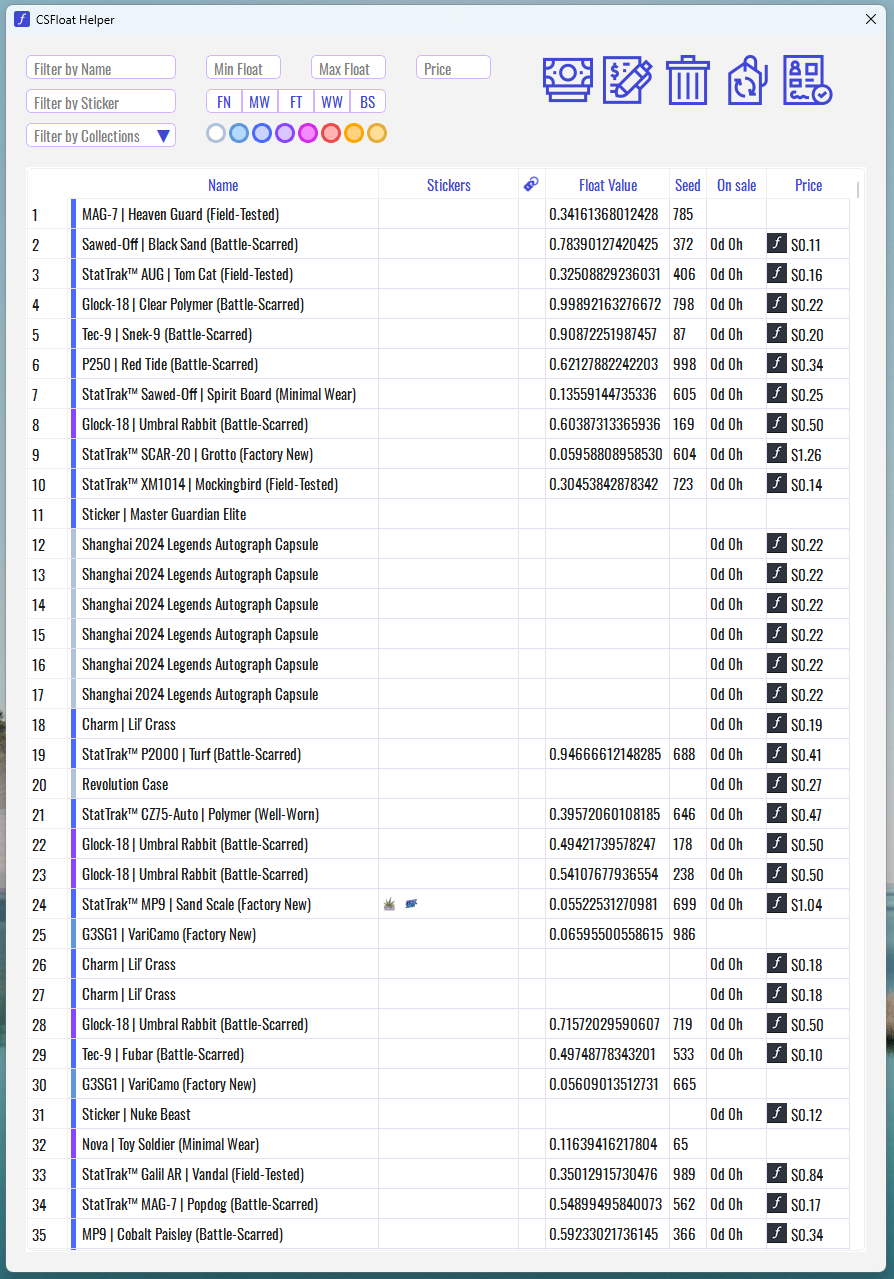
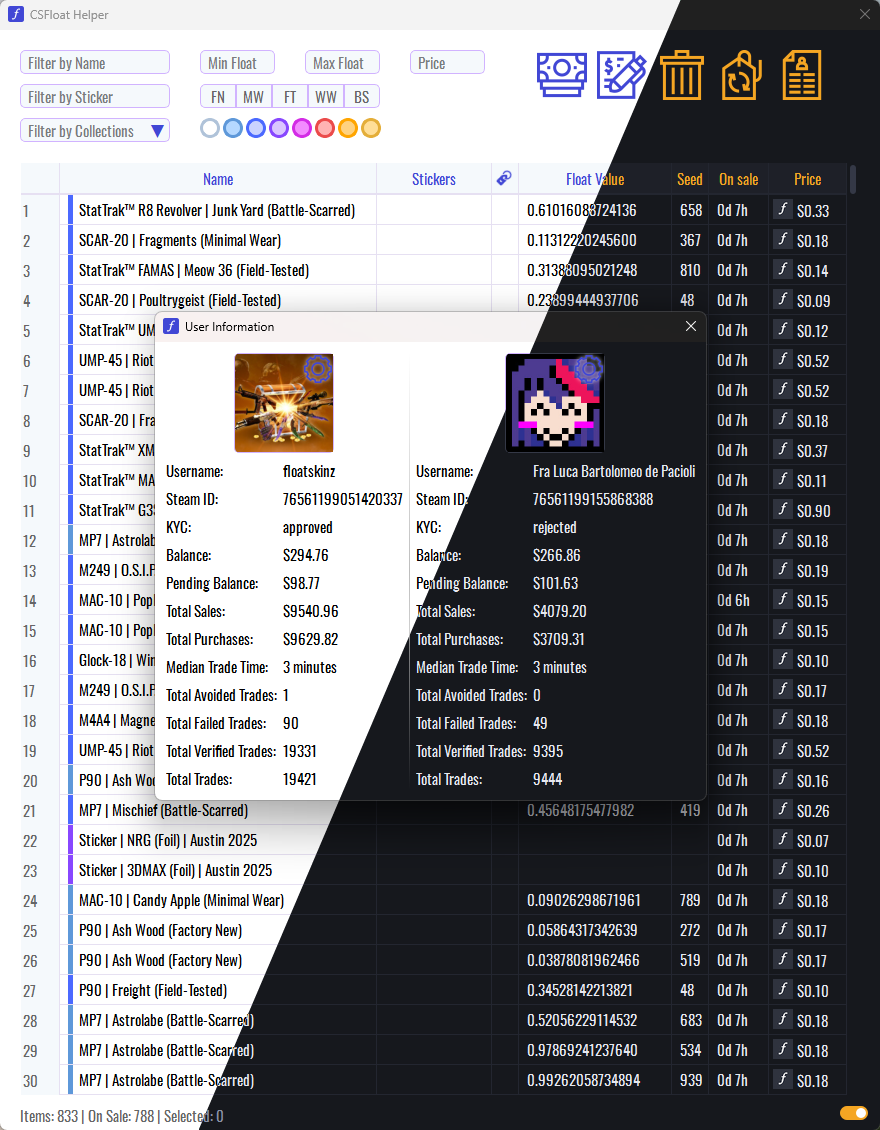
Update README with English guide and simplified setup

diff --git a/modules/loading_spinner.py b/modules/loading_spinner.py
@@ -1,0 +1,116 @@
+# modules/loading_spinner.py
+
+from PyQt6.QtWidgets import QWidget
+from PyQt6.QtGui import QPainter, QColor, QPen
+from PyQt6.QtCore import Qt, QTimer, QRectF
+
+
+class LoadingSpinner(QWidget):
+    """Анимированный спиннер загрузки. Рисует вращающуюся дугу."""
+
+    def __init__(self, parent=None, size=48, line_width=4, color=None):
+        super().__init__(parent)
+        from modules.theme import Theme
+
+        self._size = size
+        self._line_width = line_width
+        self._color = QColor(color) if color else QColor(Theme.PRIMARY)
+        self._angle = 0
+        self._span = 80
+
+        self.setFixedSize(size, size)
+        self.setAttribute(Qt.WidgetAttribute.WA_TranslucentBackground)
+
+        self._timer = QTimer(self)
+        self._timer.timeout.connect(self._rotate)
+        self._timer.setInterval(16)  # ~60 fps
+
+    def start(self):
+        self._timer.start()
+        self.show()
+
+    def stop(self):
+        self._timer.stop()
+        self.hide()
+
+    def is_spinning(self):
+        return self._timer.isActive()
+
+    def _rotate(self):
+        self._angle = (self._angle - 6) % 360
+        self.update()
+
+    def paintEvent(self, event):
+        painter = QPainter(self)
+        painter.setRenderHint(QPainter.RenderHint.Antialiasing)
+
+        pen = QPen(self._color, self._line_width, Qt.PenStyle.SolidLine, Qt.PenCapStyle.RoundCap)
+        painter.setPen(pen)
+
+        margin = self._line_width / 2 + 1
+        rect = QRectF(margin, margin, self._size - 2 * margin, self._size - 2 * margin)
+        painter.drawArc(rect, self._angle * 16, self._span * 16)
+
+        painter.end()
+
+
+class LoadingOverlay(QWidget):
+    """Полупрозрачный оверлей со спиннером по центру виджета."""
+
+    def __init__(self, parent=None, text=""):
+        super().__init__(parent)
+        from modules.theme import Theme
+
+        self._text = text
+        self._spinner = LoadingSpinner(self, size=40, line_width=3)
+        self._bg_color = QColor(Theme.BG_WHITE)
+        self._bg_color.setAlpha(180)
+        self._text_color = QColor(Theme.TEXT_SECONDARY)
+
+        self.setAttribute(Qt.WidgetAttribute.WA_TransparentForMouseEvents, False)
+        self.hide()
+
+    def start(self, text=""):
+        if text:
+            self._text = text
+        self._reposition()
+        self.show()
+        self.raise_()
+        self._spinner.start()
+
+    def stop(self):
+        self._spinner.stop()
+        self.hide()
+
+    def set_text(self, text):
+        self._text = text
+        self.update()
+
+    def _reposition(self):
+        if self.parent():
+            self.setGeometry(self.parent().rect())
+        cx = self.width() // 2 - self._spinner.width() // 2
+        cy = self.height() // 2 - self._spinner.height() // 2 - 10
+        self._spinner.move(cx, cy)
+
+    def resizeEvent(self, event):
+        super().resizeEvent(event)
+        self._reposition()
+
+    def paintEvent(self, event):
+        painter = QPainter(self)
+        painter.fillRect(self.rect(), self._bg_color)
+
+        if self._text:
+            from modules.theme import Theme
+            from PyQt6.QtGui import QFont
+
+            painter.setPen(self._text_color)
+            painter.setFont(QFont(Theme.FONT_FAMILY, Theme.FONT_SIZE_SMALL))
+            text_y = self.height() // 2 + self._spinner.height() // 2 + 4
+            painter.drawText(
+                self.rect().adjusted(0, text_y - self.height() // 2, 0, 0),
+                Qt.AlignmentFlag.AlignHCenter | Qt.AlignmentFlag.AlignTop,
+                self._text,
+            )
+        painter.end()

diff --git a/README.md b/README.md
@@ -1,73 +1,153 @@
-![Screenshot of CSFloat Helper](screenshot/Screenshot_main.png)
-## Installation
+# CSFloat Helper
 
-### Requirements
+![Screenshot](screenshot/Screenshot_main.png)
 
--   **Python 3.7 or higher**: Make sure you have Python version 3.7 or higher installed. You can download Python from the [official website](https://www.python.org/).
-
-### Installing Python
-
-1.  Download and install Python from the [official website](https://www.python.org/downloads/).
-2.  Ensure that Python and `pip` (Python package manager) are added to your system path.
-
-### Installing Dependencies
-
-1.  Ensure you are in the root directory of the project where the `requirements.txt` file is located.
-    
-2.  Install the dependencies:
-    
-    `pip install -r requirements.txt`
-    
-
-### Configuration Setup
-
-1.  Modify the `config.json` file in the root directory of the project with the following content:
-    
-    `{ "api_keys": [ "YOUR_API_KEY", "YOUR_API_KEY" ] }`
-    
-2.  Replace `"YOUR_API_KEY"` with your actual API key, and you can use multiple keys.
-    
-
-## Running the Script
-
-To run the program, use the following command:
-
-`python csfloat_helper.py`
-
-If you prefer to use a bat file for quick launch on Windows, you can use the run_csfloat_helper.bat file located in the project root:
-
-`./run_csfloat_helper.bat`
+Desktop application for convenient inventory management on CSFloat marketplace (CS2).
 
 ## Features
 
-![Screenshot of CSFloat Helper](screenshot/Screenshot_user_info.png)
-### User Interface
+### Listing Management
+- **Bulk Listing** — list multiple items for sale at once
+- **Delisting** — quickly remove items from sale
+- **Relisting** — relist items back to marketplace
+- **Price Changes** — three methods:
+  - Set new price value
+  - Change price by fixed amount (+/- fixed sum)
+  - Change price by percentage (+/- %)
 
--   **Graphical Interface**: The application provides a user-friendly graphical interface for managing the CSFloat inventory.
--   **Filters**: Ability to filter items by name, stickers, and float value.
+### Personalization
+- **Custom Note per Account** — configure individual listing note for each API key
+- **Multi-account Support** — work with multiple accounts simultaneously
 
-### Data Loading
+### Filtering and Display
+- Filters by item name, collection, rarity, wear condition
+- Filters by stickers and float value
+- Display days on sale for each item
+- Information about price, stickers, keychains
+- Status bar showing item count, listings on sale, and selected items
 
--   **Inventory**: The script loads data about the inventory and items listed for sale via the CSFloat API.
+### Additional Features
+- View user information (Steam ID, balance, sales statistics)
+- Keep Online — automatically maintain online status
+- Light/Dark theme switching
+- Image caching for fast loading
 
-### Data Display
+## Installation and Setup
 
--   **Inventory Table**: The application displays the user's inventory in a table with information about the item name, stickers, float value, days listed for sale, price.
+### Requirements
+- Python 3.7 or higher
+- Windows / Linux / macOS
 
-### Data Filtering
+### Quick Start
 
--   **Dynamic Filtering**: Ability to filter the inventory by item name, sticker, and float value.
+1. Clone the repository or download the archive
 
-### Item Management
+2. **Rename** `config.example.json` to `config.json`:
+```bash
+# Linux/macOS
+mv config.example.json config.json
 
--   **Item Sale**: Listing selected items for sale with a specified price.
--   **Remove from Sale**: Removing selected items from sale.
--   **Price Change**: Changing the price of items that are already listed for sale.
+# Windows
+ren config.example.json config.json
+```
 
-### User Information
+3. **Open** `config.json` and insert your CSFloat API key:
+```json
+{
+    "api_keys": [
+        "YOUR_CSFLOAT_API_KEY"
+    ]
+}
+```
 
--   **Displaying Information**: The application allows you to obtain and display information about the user, such as Steam ID, username, balance, total number of sales and purchases, and other data.
+Replace `YOUR_CSFLOAT_API_KEY` with your actual API key.
 
-## Contributing to the Project
+> **How to get CSFloat API key:**
+> 1. Go to [CSFloat](https://csfloat.com/)
+> 2. Log in to your account
+> 3. Open profile settings → API
+> 4. Create a new API key
 
-If you have suggestions for improvements or find bugs, please create a Pull Request or Issue on GitHub.
+**Multiple accounts:** To add more accounts, simply add more keys to the array:
+```json
+{
+    "api_keys": [
+        "first_account_api_key",
+        "second_account_api_key",
+        "third_account_api_key"
+    ]
+}
+```
+
+### Running
+
+#### Windows (Recommended):
+Simply run the launcher - it will automatically install dependencies if needed:
+```bash
+run_csfloat_helper.bat
+```
+
+#### Linux/macOS or Manual Launch:
+```bash
+pip install -r requirements.txt
+python csfloat_helper.py
+```
+
+## Usage
+
+1. **Select account** from dropdown (if using multiple API keys)
+2. **Load inventory** — click "Load Inventory" button
+3. **Apply filters** — use search fields and filters to find needed items
+4. **Select items** — check the items you need in the table
+5. **Execute operation**:
+   - Sell — list items for sale
+   - Delist — remove items from sale
+   - Change Price — modify price of listed items
+   - Swap — swap prices between two items
+
+## Security
+
+- API keys are stored locally and **hashed** in Windows registry (SHA-256)
+- **Never share your API key with third parties**
+
+## Technologies
+
+- **Python 3.7+**
+- **PyQt6** — graphical interface
+- **urllib** — HTTP requests to CSFloat API
+- **orjson** — fast JSON parsing
+- **Threading** — asynchronous operations
+
+## Project Structure
+
+```
+CSFloat-Helper-main/
+├── csfloat_helper.py           # Entry point
+├── config.json                 # API keys (create from config.example.json)
+├── requirements.txt            # Dependencies
+├── run_csfloat_helper.bat     # Quick launch (Windows)
+│
+├── modules/                    # Core modules
+│   ├── api.py                 # CSFloat API integration
+│   ├── ui.py                  # Main application window
+│   ├── workers.py             # Background threads
+│   ├── theme.py               # Theme system
+│   └── ...
+│
+├── utils/                      # Resources (icons, fonts)
+└── cache/                      # Image cache
+```
+
+## Contributing
+
+If you have suggestions for improvements or found a bug:
+1. Create an Issue on GitHub
+2. Submit a Pull Request with description of changes
+
+## License
+
+MIT License
+
+---
+
+**CSFloat Helper** — fast and convenient CS2 inventory management.
